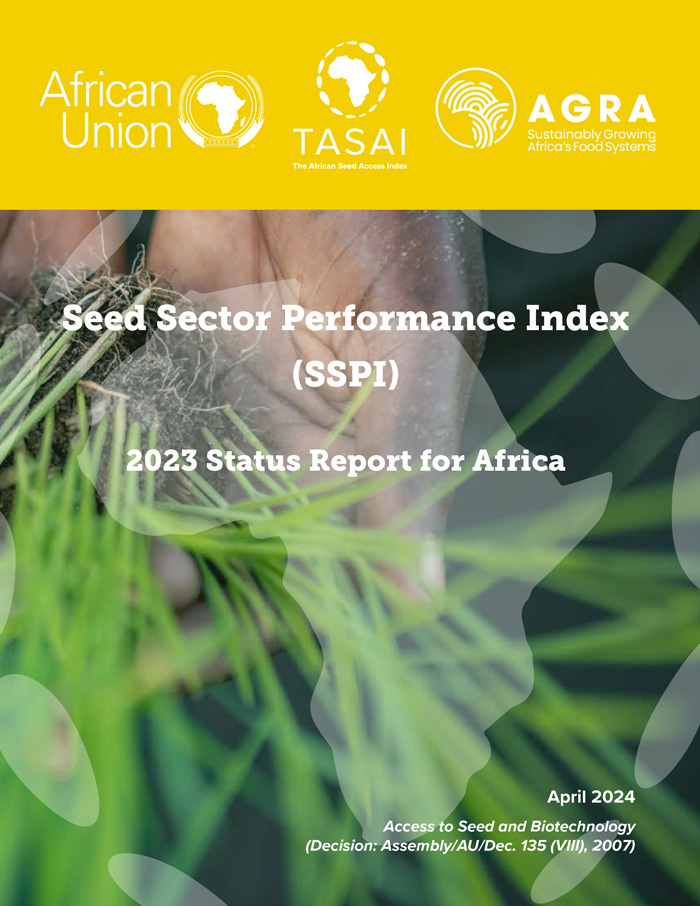
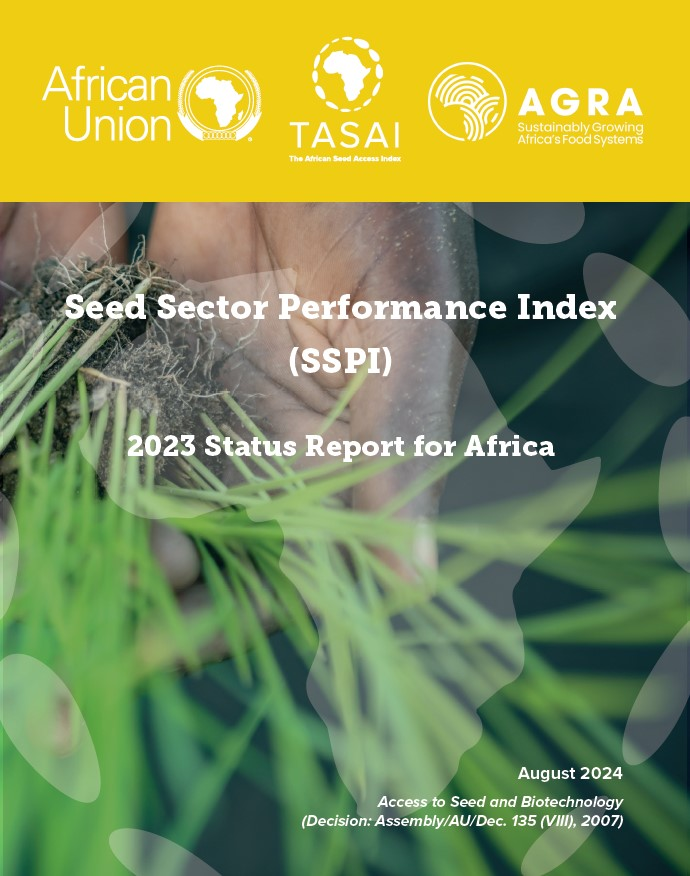
08-23-2024 cg006

diff --git a/_includes/_content_home.html b/_includes/_content_home.html
@@ -23,31 +23,34 @@
           <div class="col-md-1">
           </div>
           <div class="col-md-5">
-            <p class="lead">The 2023 Seed Sector Performance Index (SSPI) report provides an overview of the performance of national seed sectors in Africa. Developed by TASAI Inc., in collaboration with the African Union Commission's African Seed and Biotechnology Program (ASBP) and AGRA, the SSPI is a new analytical tool that aims to provide a single score measurement of the health of seed systems across Africa. The current report is SSPI's first (pilot) report. </p>
+            <p class="lead">The 2023 Seed Sector Performance Index (SSPI) report provides an overview of the performance of national seed sectors in Africa. Developed by TASAI Inc., in collaboration with the African Union Commission's African Seed and Biotechnology Program (ASBP) and AGRA, the SSPI is a new analytical tool that aims to provide a single score measurement of the health of seed systems across Africa. The current report is SSPI's first (pilot) report. The 2023 SSPI report shares data from 47 countries on 17 indicators that evaluate key aspects of each country's formal seed system. The website allows users to access individual <a href="#briefs">country briefs</a> and visualize country scores by <a href="#indicator">indicator</a>.</p>
           </div>
           <div class="col-md-5">
-            <a href="#/"><img src="assets/img/sspi_report_cover.jpg" class="img-fluid px-5" style="max-width: 370px;" /></a>
+            <a href="https://wp.tasai.org/wp-content/uploads/SSPI_report_2023_web.pdf"><img src="assets/img/sspi_report_cover.jpg" class="img-fluid px-5" style="max-width: 370px;" /></a>
           </div>
           <div class="col-md-1">
           </div>
         </div>
 
-        <div class="row pt-3">
+        <div class="row pt-5">
           <div class="col-md-1">
           </div>
           <div class="col-md-9">
-            <p class="lead ">The 2023 SSPI report shares data from 47 countries on 17 indicators that evaluate key aspects of each country’s formal seed system. This website provides access to the full report and allows users to visualize country scores by indicators. The map below displays the overall country scores; hovering over the country provides a link to the detailed country report.</p>
+            <h1 class="text-center py-4" style="letter-spacing: 1px;">SSPI Country Reports</h1>
+            <p class="lead ">The map below displays the overall country scores; hovering over the country provides a link to the detailed country report.</p>
           </div>
           <div class="col-md-2">
           </div>
         </div>
 
-
+        <!-- anchor -->
+        <a name="briefs"></a>
         <br />
 
         <!-- todo map here -->
 
         <section class="d-none d-lg-block">
+
           <div class="t-c-map-filter" style="margin: 0 auto 0 25%;">
             <div class="form-group">
               <label for="js-indicator-filter" class="t-c-map-filter__label">Indicator</label>
@@ -77,7 +80,10 @@
   </div>
 
 
+
   <div class="container mt-3">
+    <!-- anchor -->
+    <a name="indicator"></a>
     <div class="row justify-content-center">
       <div class="col-md-9">
         <h2>Indicators</h2>
@@ -92,7 +98,7 @@
                 Indicator 1. Quality of the variety release and registration process
               </button>
             </h2>
-            <div id="panelsStayOpen-collapse01" class="accordion-collapse collapse" aria-labelledby="panelsStayOpen-heading01">
+            <div id="panelsStayOpen-collapse01" class="accordion-collapse collapse show" aria-labelledby="panelsStayOpen-heading01">
               <div class="accordion-body">
                 {% include accordions_01.html %}
               </div>

diff --git a/_includes/footer_credits.html b/_includes/footer_credits.html
@@ -9,7 +9,7 @@
                 <div class="my-2 text-center ">
                     <h4 class="px-2">Seed Sector Performance Index (SSPI)</h4>
                     <p class="text-center serif lead">2023 Status Report for Africa</p>
-                    <p class="text-center mt-3">April 2024<br />
+                    <p class="text-center mt-3">August 2024<br />
                         Access to Seed and Biotechnology<br />
                         <em>(Decision: Assembly/AU/Dec. 135 (VIII), 2007)</em>
                     </p>
